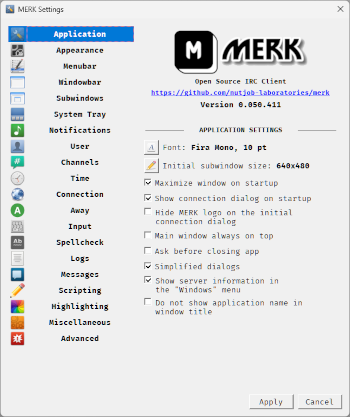
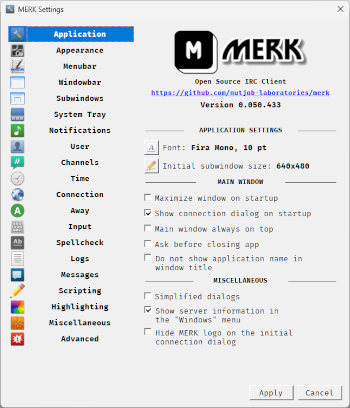
Tweaks to settings dialog

diff --git a/README.html b/README.html
@@ -1,4 +1,4 @@
-<h1>MERK 0.050.432</h1>
+<h1>MERK 0.050.433</h1>
 
 <p><a href="https://github.com/nutjob-laboratories/merk">Official source code repository</a></p>
 <h1 id="table-of-contents">Table of contents</h1>
@@ -14,7 +14,7 @@
 <li><a href="#does-merk-need-any-help">Does MERK need any help?</a></li>
 </ul>
 <h1 id="summary">Summary</h1>
-<p><strong>MERK</strong> is a graphical <a href="https://www.gnu.org/licenses/gpl-3.0.en.html">open source</a> <a href="https://en.wikipedia.org/wiki/Internet_Relay_Chat">Internet relay chat</a> client. The current development version is <strong>0.050.432</strong>. It uses a <a href="https://en.wikipedia.org/wiki/Multiple-document_interface">multiple-document interface</a>, much like the popular Windows IRC client <a href="https://www.mirc.com/">mIRC</a>.  <strong>MERK</strong> is written in Python 3, using the <a href="https://pypi.org/project/PyQt5/">PyQt5</a> and <a href="https://twistedmatrix.com/trac/">Twisted</a> libraries, and runs on both Windows and Linux. <strong>MERK</strong> is updated frequently with new features and bugfixes.</p>
+<p><strong>MERK</strong> is a graphical <a href="https://www.gnu.org/licenses/gpl-3.0.en.html">open source</a> <a href="https://en.wikipedia.org/wiki/Internet_Relay_Chat">Internet relay chat</a> client. The current development version is <strong>0.050.433</strong>. It uses a <a href="https://en.wikipedia.org/wiki/Multiple-document_interface">multiple-document interface</a>, much like the popular Windows IRC client <a href="https://www.mirc.com/">mIRC</a>.  <strong>MERK</strong> is written in Python 3, using the <a href="https://pypi.org/project/PyQt5/">PyQt5</a> and <a href="https://twistedmatrix.com/trac/">Twisted</a> libraries, and runs on both Windows and Linux. <strong>MERK</strong> is updated frequently with new features and bugfixes.</p>
 <p><strong>MERK</strong> is still in development, but it works, and can be used for most IRC activities.</p>
 <p>Join me on the official <strong>MERK</strong> IRC channel, <strong>#merk</strong> on the Libera Chat network! Connect to  Libera in the client as one of the built-in server suggestions, or at <strong>irc.libera.chat</strong>, port <strong>6667</strong> (you can also connect via SSL on port <strong>6697</strong>). Honestly, I work a lot, so I&#39;m almost always idle, but I pop in and chat a few times a day!</p>
 <h1 id="making-merk-portable-on-windows">Making MERK Portable on Windows</h1>

diff --git a/merk/resources/README.html b/merk/resources/README.html
@@ -1,4 +1,4 @@
-<h1>MERK 0.050.432</h1>
+<h1>MERK 0.050.433</h1>
 
 <p><a href="https://github.com/nutjob-laboratories/merk">Official source code repository</a></p>
 <h1 id="table-of-contents">Table of contents</h1>
@@ -14,7 +14,7 @@
 <li><a href="#does-merk-need-any-help">Does MERK need any help?</a></li>
 </ul>
 <h1 id="summary">Summary</h1>
-<p><strong>MERK</strong> is a graphical <a href="https://www.gnu.org/licenses/gpl-3.0.en.html">open source</a> <a href="https://en.wikipedia.org/wiki/Internet_Relay_Chat">Internet relay chat</a> client. The current development version is <strong>0.050.432</strong>. It uses a <a href="https://en.wikipedia.org/wiki/Multiple-document_interface">multiple-document interface</a>, much like the popular Windows IRC client <a href="https://www.mirc.com/">mIRC</a>.  <strong>MERK</strong> is written in Python 3, using the <a href="https://pypi.org/project/PyQt5/">PyQt5</a> and <a href="https://twistedmatrix.com/trac/">Twisted</a> libraries, and runs on both Windows and Linux. <strong>MERK</strong> is updated frequently with new features and bugfixes.</p>
+<p><strong>MERK</strong> is a graphical <a href="https://www.gnu.org/licenses/gpl-3.0.en.html">open source</a> <a href="https://en.wikipedia.org/wiki/Internet_Relay_Chat">Internet relay chat</a> client. The current development version is <strong>0.050.433</strong>. It uses a <a href="https://en.wikipedia.org/wiki/Multiple-document_interface">multiple-document interface</a>, much like the popular Windows IRC client <a href="https://www.mirc.com/">mIRC</a>.  <strong>MERK</strong> is written in Python 3, using the <a href="https://pypi.org/project/PyQt5/">PyQt5</a> and <a href="https://twistedmatrix.com/trac/">Twisted</a> libraries, and runs on both Windows and Linux. <strong>MERK</strong> is updated frequently with new features and bugfixes.</p>
 <p><strong>MERK</strong> is still in development, but it works, and can be used for most IRC activities.</p>
 <p>Join me on the official <strong>MERK</strong> IRC channel, <strong>#merk</strong> on the Libera Chat network! Connect to  Libera in the client as one of the built-in server suggestions, or at <strong>irc.libera.chat</strong>, port <strong>6667</strong> (you can also connect via SSL on port <strong>6697</strong>). Honestly, I work a lot, so I&#39;m almost always idle, but I pop in and chat a few times a day!</p>
 <h1 id="making-merk-portable-on-windows">Making MERK Portable on Windows</h1>

diff --git a/merk/dialog/settings.py b/merk/dialog/settings.py
@@ -1478,14 +1478,17 @@ class Dialog(QDialog):
 		applicationLayout.addWidget(widgets.textSeparatorLabel(self,"<b>application settings</b>"))
 		applicationLayout.addLayout(fontLayout)
 		applicationLayout.addLayout(sizeLayout)
+		applicationLayout.addWidget(widgets.textSeparatorLabel(self,"<b>main window</b>"))
 		applicationLayout.addWidget(self.maxOnStart)
 		applicationLayout.addWidget(self.showConnect)
-		applicationLayout.addWidget(self.noConnectLogo)
 		applicationLayout.addWidget(self.alwaysOnTop)
 		applicationLayout.addWidget(self.askBeforeExit)
+		applicationLayout.addWidget(self.noAppNameTitle)
+		applicationLayout.addWidget(widgets.textSeparatorLabel(self,"<b>miscellaneous</b>"))
 		applicationLayout.addWidget(self.simpleConnect)
 		applicationLayout.addWidget(self.showServerInfo)
-		applicationLayout.addWidget(self.noAppNameTitle)
+		applicationLayout.addWidget(self.noConnectLogo)
+		
 		applicationLayout.addStretch()
 
 		self.applicationPage.setLayout(applicationLayout)

diff --git a/merk/resources/version.py b/merk/resources/version.py
@@ -1,1 +1,1 @@
-APPLICATION_VERSION = "0.050.432"
+APPLICATION_VERSION = "0.050.433"

diff --git a/README.md b/README.md
@@ -3,7 +3,7 @@
   <b><big>Open Source IRC Client</big></b><br>
   <i>A multiple-document interface IRC client for Windows and Linux</i><br>
   <b><big>Current stable release: <a href="https://github.com/nutjob-laboratories/merk/releases/tag/0.050.400">MERK 0.050.400</a></big></b><br>
-  <b>Current development version: 0.050.432</b><br><br>
+  <b>Current development version: 0.050.433</b><br><br>
   <b><a href="https://gofund.me/ae062139">Help Fund MERK!</a></b><br>
 </p>
 
@@ -30,13 +30,13 @@ All files are packed in [ZIP archive files](https://en.wikipedia.org/wiki/ZIP_(f
 | :----:    | :----:    | :----:    |
 | User Guide |  -  | [View](./MERK_User_Guide.pdf)  |
 | Current Release |  -  | [MERK 0.050.400 Release](https://github.com/nutjob-laboratories/merk/releases/tag/0.050.400)  |
-| Zip Archive|  Cross-platform  | [Download MERK 0.050.432 (11.95 MB)](https://www.dropbox.com/scl/fi/pf9p7ltb3uufm5akjz7l0/merk-latest.zip?rlkey=3caodopybbcxr4p9grxygxzym&st=01zsuura&dl=1)  |
-| Zip Archive|  Windows | [Download MERK 0.050.432 (48.76 MB)](https://www.dropbox.com/scl/fi/4w9ufyknzac24o06710bi/merk-windows-latest.zip?rlkey=zmir67l3klg8mw0omxayzmssc&st=vb69tsdi&dl=1)|
-|   Windows Installer|  Windows | [Download MERK 0.050.432 (45.88 MB)](https://www.dropbox.com/scl/fi/0u1vcg5xuntzs2b16e01b/merk_setup.zip?rlkey=8avj1gyed3txz1nfj9ev41mmh&st=zlve4c1o&dl=1)|
+| Zip Archive|  Cross-platform  | [Download MERK 0.050.433 (11.95 MB)](https://www.dropbox.com/scl/fi/pf9p7ltb3uufm5akjz7l0/merk-latest.zip?rlkey=3caodopybbcxr4p9grxygxzym&st=01zsuura&dl=1)  |
+| Zip Archive|  Windows | [Download MERK 0.050.433 (48.76 MB)](https://www.dropbox.com/scl/fi/4w9ufyknzac24o06710bi/merk-windows-latest.zip?rlkey=zmir67l3klg8mw0omxayzmssc&st=vb69tsdi&dl=1)|
+|   Windows Installer|  Windows | [Download MERK 0.050.433 (45.89 MB)](https://www.dropbox.com/scl/fi/0u1vcg5xuntzs2b16e01b/merk_setup.zip?rlkey=8avj1gyed3txz1nfj9ev41mmh&st=zlve4c1o&dl=1)|
 
 # Summary
   
-**MERK** is a graphical [open source](https://www.gnu.org/licenses/gpl-3.0.en.html) [Internet relay chat](https://en.wikipedia.org/wiki/Internet_Relay_Chat) client. The current development version is **0.050.432**. It uses a [multiple-document interface](https://en.wikipedia.org/wiki/Multiple-document_interface), much like the popular Windows IRC client [mIRC](https://www.mirc.com/).  **MERK** is written in Python 3, using the [PyQt5](https://pypi.org/project/PyQt5/) and [Twisted](https://twistedmatrix.com/trac/) libraries, and runs on both Windows and Linux. **MERK** is updated frequently with new features and bugfixes.
+**MERK** is a graphical [open source](https://www.gnu.org/licenses/gpl-3.0.en.html) [Internet relay chat](https://en.wikipedia.org/wiki/Internet_Relay_Chat) client. The current development version is **0.050.433**. It uses a [multiple-document interface](https://en.wikipedia.org/wiki/Multiple-document_interface), much like the popular Windows IRC client [mIRC](https://www.mirc.com/).  **MERK** is written in Python 3, using the [PyQt5](https://pypi.org/project/PyQt5/) and [Twisted](https://twistedmatrix.com/trac/) libraries, and runs on both Windows and Linux. **MERK** is updated frequently with new features and bugfixes.
 
 **MERK** is still in development, but it works, and can be used for most IRC activities. [The current stable release of **MERK** is version 0.050.400](https://github.com/nutjob-laboratories/merk/releases/tag/0.050.400). **MERK** has a user guide, which can be [viewed here](./MERK_User_Guide.pdf).
 
@@ -118,7 +118,7 @@ There are three libraries that comes bundled with **MERK**:
 
 # Screenshots
 
-<p><small><i>Screenshots may not reflect the current release (0.050.400), and may reflect the current development version (0.050.432). More screenshots are in the <a href="./MERK_User_Guide.pdf">MERK User Guide</a>.</i></small></p>
+<p><small><i>Screenshots may not reflect the current release (0.050.400), and may reflect the current development version (0.050.433). More screenshots are in the <a href="./MERK_User_Guide.pdf">MERK User Guide</a>.</i></small></p>
 
 <p align="center">
 <center><a href="./graphics/screenshot_big.png"><img src="./graphics/screenshot1.png"></a></center></br>
